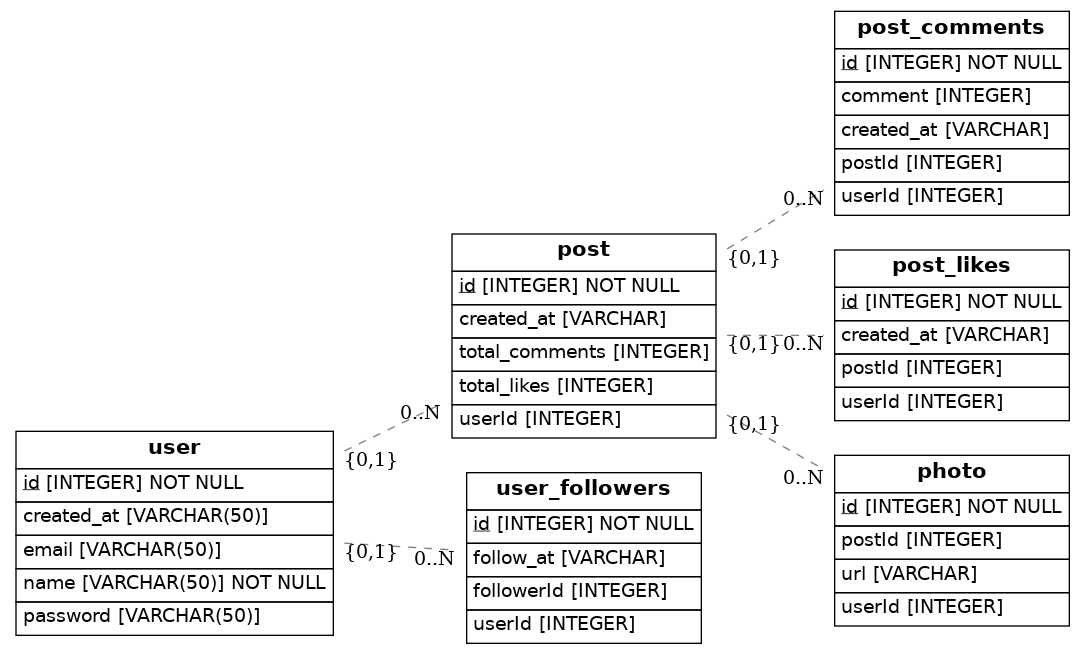
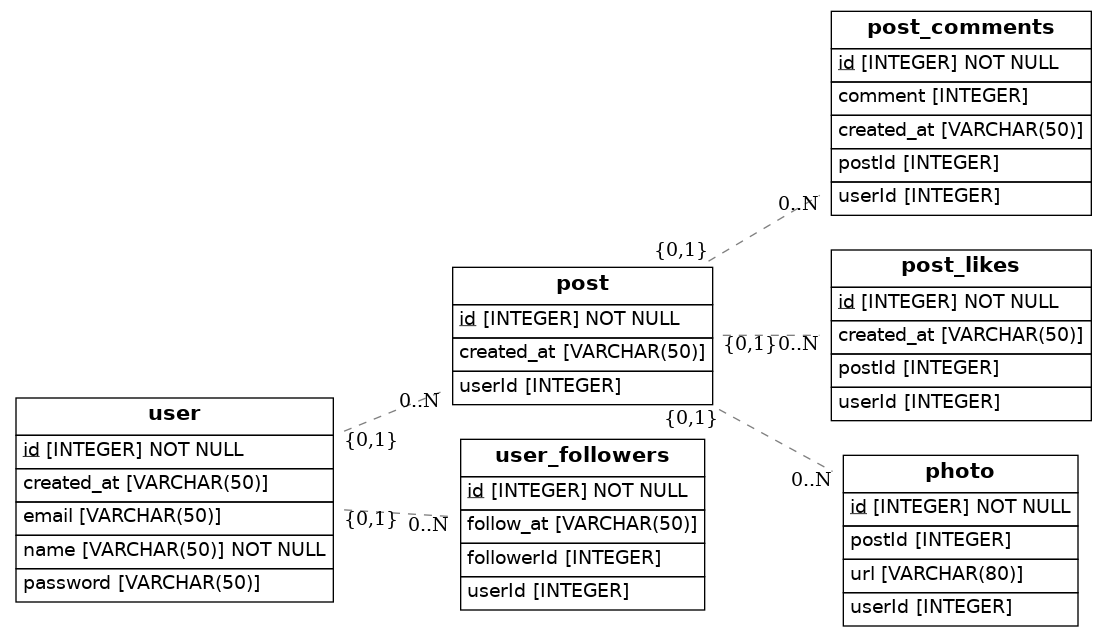
update post

Changed region(s): [[0.0, 0.0, 1.0, 0.9843]]

diff --git a/src/models.py b/src/models.py
@@ -21,16 +21,14 @@ class Post(Base):
     __tablename__ = 'post'
     id = Column(Integer, primary_key=True)
     userId = Column(Integer, ForeignKey('user.id'))
-    created_at = Column(String)
-    total_likes = Column(Integer)
-    total_comments = Column(Integer)
+    created_at = Column(String(50))
 
 class Post_comments(Base):
     __tablename__ = 'post_comments'
     id = Column(Integer, primary_key=True)
     postId = Column(Integer)
     userId = Column(Integer, ForeignKey('post.id'))
-    created_at = Column(String)
+    created_at = Column(String(50))
     comment = Column(Integer)
 
 class Post_likes(Base):
@@ -38,7 +36,7 @@ class Post_likes(Base):
     id = Column(Integer, primary_key=True)
     postId = Column(Integer, ForeignKey('post.id'))
     userId = Column(Integer)
-    created_at = Column(String)
+    created_at = Column(String(50))
 
 
 class Photo(Base):
@@ -46,14 +44,14 @@ class Photo(Base):
     id = Column(Integer, primary_key=True)
     postId = Column(Integer, ForeignKey('post.id'))
     userId = Column(Integer)
-    url = Column(String)
+    url = Column(String(80))
 
 class User_followers(Base):
     __tablename__ = 'user_followers'
     id = Column(Integer, primary_key=True)
     userId = Column(Integer, ForeignKey('user.id'))
     followerId = Column(Integer)
-    follow_at = Column(String)
+    follow_at = Column(String(50))
 
 
 
